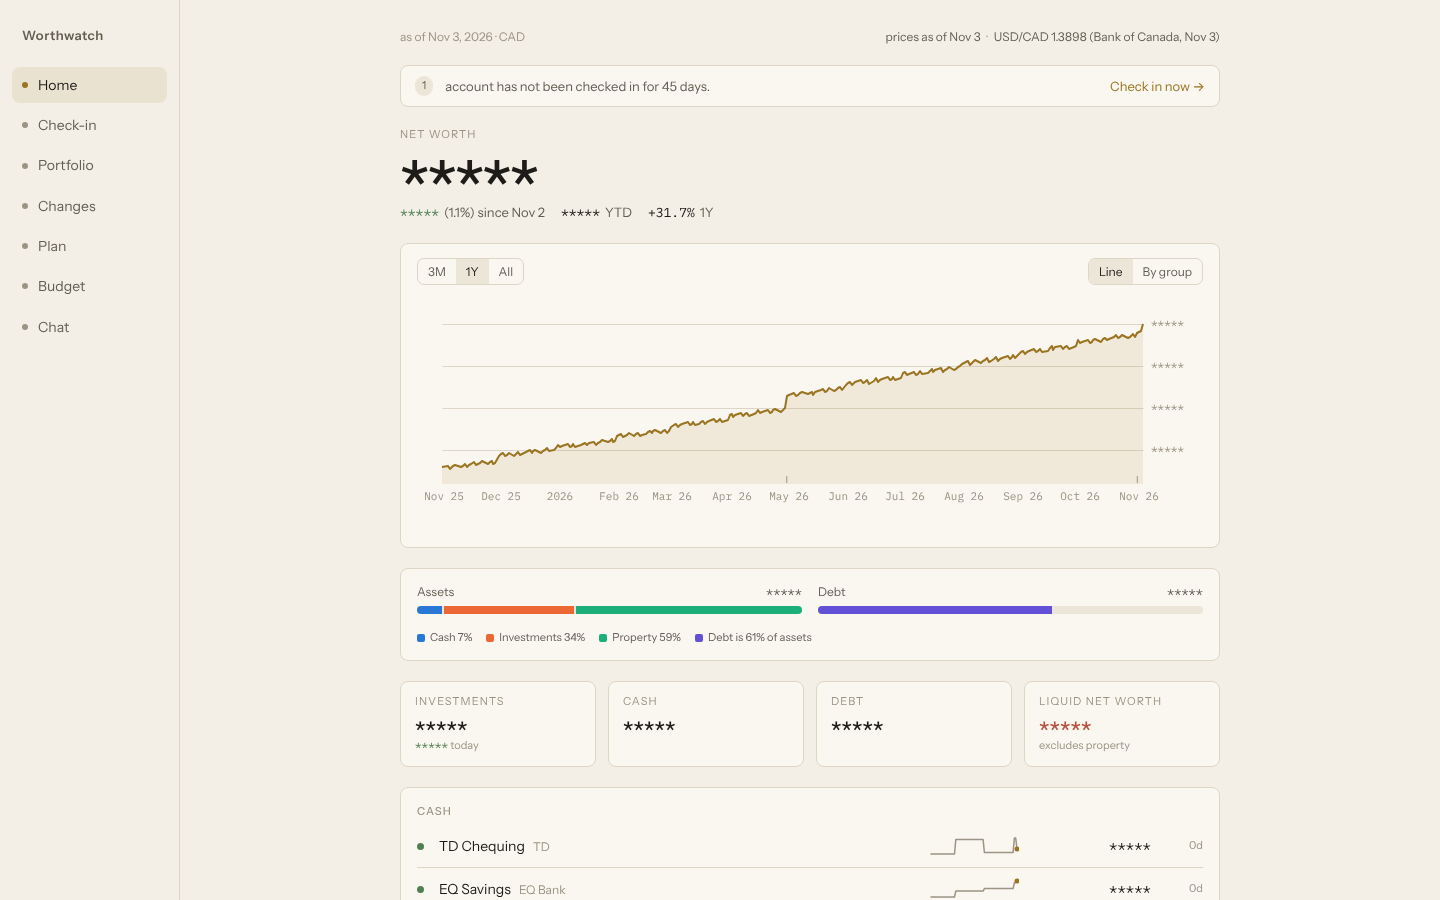
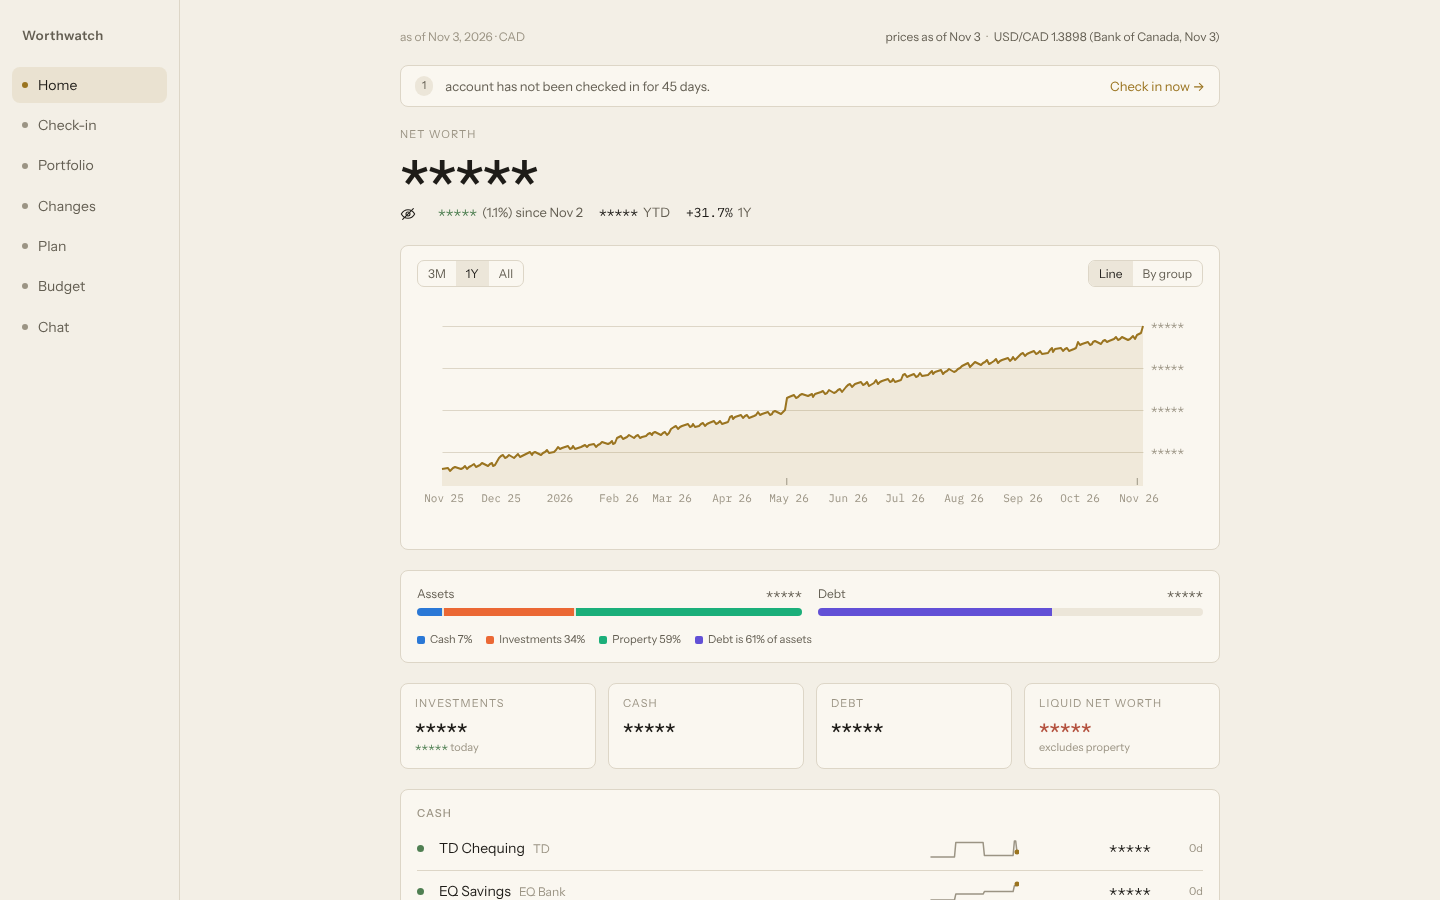
Hide unit counts too, and add an eye toggle under each big figure
Unit counts are personal like amounts, so formatUnits masks them while
amounts are hidden; share prices stay visible. An eye button under the
headline figure on Home, Portfolio, Look-through, Changes, Plan, Budget
and Account detail does the same as ⌘⇧H, with aria-pressed.

diff --git a/ui/src/screens/CheckIn.svelte b/ui/src/screens/CheckIn.svelte
@@ -1,7 +1,7 @@
 <script lang="ts">
   import { apply, ApiError, GROUPS, GROUP_LABEL, KIND_LABEL, ratesInUse, type Account, type AccountKind, type AccountView, type LedgerView, type Mutation } from "../lib/api";
   import { balanceDelta, buildCheckin, slugify, summarize, type Entry } from "../lib/checkin";
-  import { formatDate, formatPlain, parseNumber, todayIso, MASK, amountsHidden } from "../lib/money";
+  import { formatDate, formatPlain, formatUnits, parseNumber, todayIso, MASK, amountsHidden } from "../lib/money";
   import { view as viewStore } from "../lib/stores/view.svelte";
   import { route } from "../lib/stores/route.svelte";
   import Money from "../lib/components/Money.svelte";
@@ -148,10 +148,10 @@
           {#each a.holdings as h}
             <div class="ci pos">
               <span class="name">{h.symbol}<span class="faint inst">units · price in {a.currency}</span></span>
-              <span class="r num muted">{formatPlain(h.units, 4)}</span>
+              <span class="r num muted">{formatUnits(h.units)}</span>
               <span class="r upd faint" title={h.price_source === "fetched" ? "fetched price; typing one overrides it for this date" : h.price_source === "manual" ? "typed on a check-in" : ""}>{h.price == null ? "no price" : `${formatPlain(h.price)} ${h.price_date ? formatDate(h.price_date) : ""}`}</span>
               <span class="pair">
-                <input type="text" id="in-{a.id}-{h.symbol}-units" inputmode="decimal" placeholder={formatPlain(h.units, 4)} value={entries[a.id]?.units?.[h.symbol] ?? ""} oninput={(e) => setUnits(a.id, h.symbol, e.currentTarget.value)} class:bad={result.invalid.includes(`${a.id}:${h.symbol}:units`)} disabled={locked} aria-label="{h.symbol} units" />
+                <input type="text" id="in-{a.id}-{h.symbol}-units" inputmode="decimal" placeholder={formatUnits(h.units)} value={entries[a.id]?.units?.[h.symbol] ?? ""} oninput={(e) => setUnits(a.id, h.symbol, e.currentTarget.value)} class:bad={result.invalid.includes(`${a.id}:${h.symbol}:units`)} disabled={locked} aria-label="{h.symbol} units" />
                 <input type="text" id="in-{a.id}-{h.symbol}-price" inputmode="decimal" placeholder={h.price == null ? "price" : formatPlain(h.price)} value={entries[a.id]?.prices?.[h.symbol] ?? ""} oninput={(e) => setPrice(a.id, h.symbol, e.currentTarget.value)} class:bad={result.invalid.includes(`${a.id}:${h.symbol}:price`)} disabled={locked} aria-label="{h.symbol} price" />
               </span>
               <span class="r delta faint">{entries[a.id]?.units?.[h.symbol] || entries[a.id]?.prices?.[h.symbol] ? "edited" : "carry"}</span>

diff --git a/ui/src/screens/Portfolio.svelte b/ui/src/screens/Portfolio.svelte
@@ -1,6 +1,7 @@
 <script lang="ts">
+  import PrivacyToggle from "../lib/components/PrivacyToggle.svelte";
   import type { LedgerView, SecurityRow } from "../lib/api";
-  import { formatDate, formatPlain } from "../lib/money";
+  import { formatDate, formatPlain, formatUnits } from "../lib/money";
   import { providerLabel } from "../lib/market";
   import Money from "../lib/components/Money.svelte";
   import MarketLine from "../lib/components/MarketLine.svelte";
@@ -70,6 +71,7 @@
       <div class="label">Investments</div>
       <Money value={p.total} currency={cur} size="xl" />
       <div class="sub">
+        <PrivacyToggle />
         {#if p.day_change != null}
           <span class="chip"><Money value={p.day_change} currency={cur} signed tone="delta" /><span class="muted">since previous close</span></span>
         {/if}
@@ -108,7 +110,7 @@
                 <span class="sym">{r.symbol}</span>
                 <span class="sub2">{r.accounts.map((a) => a.name).join(" + ")} · {r.currency}{#if r.currency !== cur && !r.missing_fx}&nbsp;→ {cur}{/if}{#if multi}&nbsp;<span class="tw">{open[r.symbol] ? "▾" : "▸"}</span>{/if}</span>
               </td>
-              <td class="r num">{formatPlain(r.units, 4)}</td>
+              <td class="r num">{formatUnits(r.units)}</td>
               <td class="r num">
                 {#if r.price == null}<span class="warn">no price</span><span class="sub2 warn">type one on Check-in</span>
                 {:else}{formatPlain(r.price)}<span class="sub2" class:warn={age != null && age > STALE_DAYS}>{r.price_date ? formatDate(r.price_date) : ""}{r.price_source === "manual" ? " · manual" : ""}</span>{/if}
@@ -129,7 +131,7 @@
               {#each r.accounts as a}
                 <tr class="acct">
                   <td><a href="#/accounts/{encodeURIComponent(a.account)}">{a.name}</a></td>
-                  <td class="r num">{formatPlain(a.units, 4)}</td>
+                  <td class="r num">{formatUnits(a.units)}</td>
                   <td></td>
                   <td class="r">{#if a.value != null}<Money value={a.value} currency={cur} />{/if}</td>
                   <td></td>

diff --git a/ui/src/lib/components/PastePanel.svelte b/ui/src/lib/components/PastePanel.svelte
@@ -1,7 +1,7 @@
 <script lang="ts">
   // Paste a broker holdings export for one position account; preview the diff; apply.
   import { apply, ApiError, parseHoldings, type AccountView, type PastePlan } from "../api";
-  import { formatPlain } from "../money";
+  import { formatPlain, formatUnits, MASK, amountsHidden } from "../money";
   import { view as viewStore } from "../stores/view.svelte";
 
   let { account, date, locked = false, onclose }: { account: AccountView; date: string; locked?: boolean; onclose: () => void } = $props();
@@ -60,10 +60,10 @@
         {@const d = Number(r.delta)}
         <div class="prev">
           <span>{r.symbol}{#if r.new}<span class="new">new</span>{:else if r.pasted_symbol.toUpperCase() !== r.symbol}<span class="faint small">&nbsp;from {r.pasted_symbol}</span>{/if}</span>
-          <span class="r num">{r.new ? "—" : formatPlain(r.current_units, 4)}</span>
-          <span class="r num">{formatPlain(r.units, 4)}</span>
-          <span class="r num" class:up={d > 0} class:down={d < 0} class:faint={d === 0}>{d === 0 ? "same" : `${d > 0 ? "+" : "−"}${formatPlain(Math.abs(d), 4)}`}</span>
-          <span class="r num">{r.price == null ? "—" : formatPlain(r.price)}{#if r.book_cost != null}<span class="faint small"> · book {formatPlain(r.book_cost)}</span>{/if}</span>
+          <span class="r num">{r.new ? "—" : formatUnits(r.current_units)}</span>
+          <span class="r num">{formatUnits(r.units)}</span>
+          <span class="r num" class:up={d > 0} class:down={d < 0} class:faint={d === 0}>{d === 0 ? "same" : `${d > 0 ? "+" : "−"}${formatUnits(Math.abs(d))}`}</span>
+          <span class="r num">{r.price == null ? "—" : formatPlain(r.price)}{#if r.book_cost != null}<span class="faint small"> · book {amountsHidden() ? MASK : formatPlain(r.book_cost)}</span>{/if}</span>
         </div>
       {/each}
     {/if}

diff --git a/ui/e2e/smoke.spec.ts b/ui/e2e/smoke.spec.ts
@@ -219,7 +219,7 @@ test("Plan: a recurring rule moves the projection; ⌘K reaches the wall view; a
 
   await page.getByRole("button", { name: "+ Add rule" }).click();
   await page.getByLabel("Account").selectOption({ label: "TD Chequing" });
-  await page.getByLabel("Amount").fill("1000");
+  await page.getByLabel("Amount", { exact: true }).fill("1000");
   await page.getByRole("button", { name: "Add", exact: true }).click();
   await expect(page.locator(".rules .r")).toContainText("TD Chequing");
   await expect(hero).not.toHaveText(before!);
@@ -305,8 +305,20 @@ test("⌘⇧H hides every amount as stars, and shows them again", async ({ page 
   await page.keyboard.press("Control+Shift+H");
   await expect(amount).toHaveText("*****");
   await expect(page.locator(".money").filter({ hasText: /\d/ })).toHaveCount(0);
-  await expect(page.getByRole("button", { name: /Show amounts/ })).toBeVisible();
+  await expect(page.locator(".rail").getByRole("button", { name: /Show amounts/ })).toBeVisible();
+  // Unit counts are personal too; share prices are public and stay.
+  await page.goto("/#/portfolio");
+  await expect(page.locator("table td.num").filter({ hasText: /^\*{5}$/ }).first()).toBeVisible();
+  await page.goto("/#/");
   await page.keyboard.press("Control+Shift+H");
+  await expect(amount).toHaveText(/^\$[\d,]+$/);
+
+  // The eye under the big figure does the same.
+  const eye = page.getByRole("button", { name: "Hide amounts" }).first();
+  await eye.click();
+  await expect(amount).toHaveText("*****");
+  await expect(page.locator(".hero").getByRole("button", { name: "Show amounts" })).toHaveAttribute("aria-pressed", "true");
+  await page.locator(".hero").getByRole("button", { name: "Show amounts" }).click();
   await expect(amount).toHaveText(/^\$[\d,]+$/);
 });
 

diff --git a/ui/src/screens/AccountDetail.svelte b/ui/src/screens/AccountDetail.svelte
@@ -1,6 +1,7 @@
 <script lang="ts">
+  import PrivacyToggle from "../lib/components/PrivacyToggle.svelte";
   import { KIND_LABEL, type LedgerView } from "../lib/api";
-  import { formatDate, formatPlain, MASK, amountsHidden } from "../lib/money";
+  import { formatDate, formatPlain, formatUnits, MASK, amountsHidden } from "../lib/money";
   import { prefs } from "../lib/stores/prefs.svelte";
   import Money from "../lib/components/Money.svelte";
   import NetWorthChart from "../lib/charts/NetWorthChart.svelte";
@@ -28,7 +29,7 @@
       </div>
       <div class="val">
         <Money value={a.value} currency={cur} size="xl" />
-        <div class="faint">{a.as_of ? `updated ${formatDate(a.as_of, "long")}` : "no value yet"}{a.days_stale != null ? ` · ${a.days_stale}d ago` : ""}</div>
+        <div class="faint"><PrivacyToggle /> {a.as_of ? `updated ${formatDate(a.as_of, "long")}` : "no value yet"}{a.days_stale != null ? ` · ${a.days_stale}d ago` : ""}</div>
       </div>
     </div>
 
@@ -45,7 +46,7 @@
             {#each a.holdings as h}
               <tr>
                 <td>{h.symbol}</td>
-                <td class="r num">{formatPlain(h.units, 4)}</td>
+                <td class="r num">{formatUnits(h.units)}</td>
                 <td class="r num">{#if h.price == null}<span class="warn">no price</span>{:else}{formatPlain(h.price)}<span class="faint small">&nbsp;&nbsp;{h.price_date ? formatDate(h.price_date) : ""}{h.price_source === "manual" ? " · manual" : ""}</span>{/if}</td>
                 <td class="r num money">{h.native_value == null ? "—" : amountsHidden() ? MASK : formatPlain(h.native_value)}</td>
                 <td class="r num money">{h.book_cost == null ? "—" : amountsHidden() ? MASK : formatPlain(h.book_cost)}</td>

diff --git a/ui/src/screens/Changes.svelte b/ui/src/screens/Changes.svelte
@@ -1,9 +1,10 @@
 <script lang="ts">
+  import PrivacyToggle from "../lib/components/PrivacyToggle.svelte";
   // Changes: what moved between two dates. Net worth bridge, every account, every
   // holding split into market / trades / FX, exposure drift, and the feed of fund
   // file changes. All figures come from GET /api/changes; this file lays them out.
   import { GROUPS, GROUP_LABEL, type AccountDiff, type BucketDelta, type Drift, type LedgerView } from "../lib/api";
-  import { formatDate, formatPlain, formatSigned } from "../lib/money";
+  import { formatDate, formatPlain, formatSigned, formatUnits } from "../lib/money";
   import { PRESETS, accountHint, bridgeSteps, changeLine, minorLine, parts, presetFrom, presetTo, rangeLabel, type Preset } from "../lib/changes";
   import { changes as store } from "../lib/stores/changes.svelte";
   import { prefs } from "../lib/stores/prefs.svelte";
@@ -60,7 +61,7 @@
       });
   }
 
-  const units = (x: string) => new Intl.NumberFormat("en-CA", { maximumFractionDigits: 4 }).format(Number(x));
+  const units = (x: string) => formatUnits(x);
   const accountParts = (a: AccountDiff) =>
     [
       { label: "market", value: Number(a.market ?? 0) },
@@ -137,6 +138,7 @@
         <div class="label">Net worth change</div>
         <Money value={c.change} currency={cur} size="xl" signed tone="delta" />
         <div class="sub">
+          <PrivacyToggle />
           <span class="chip"><span class="num"><Money value={c.from_net_worth} currency={cur} /> → <Money value={c.to_net_worth} currency={cur} /></span>{#if c.pct != null}<span class="muted">({Number(c.pct) > 0 ? "+" : ""}{c.pct}%)</span>{/if}</span>
         </div>
         {#if headParts.length}

diff --git a/ui/src/lib/components/PrivacyToggle.svelte b/ui/src/lib/components/PrivacyToggle.svelte
@@ -1,0 +1,26 @@
+<script lang="ts">
+  // The eye under each big figure: shows or hides every amount (same as ⌘⇧H).
+  import { prefs } from "../stores/prefs.svelte";
+</script>
+
+<button
+  type="button"
+  class="eye"
+  aria-pressed={prefs.blur}
+  aria-label={prefs.blur ? "Show amounts" : "Hide amounts"}
+  title="{prefs.blur ? 'Show' : 'Hide'} amounts (⌘⇧H)"
+  onclick={() => prefs.toggleBlur()}>
+  <svg viewBox="0 0 24 24" width="16" height="16" aria-hidden="true">
+    <path d="M2 12s3.6-6.5 10-6.5S22 12 22 12s-3.6 6.5-10 6.5S2 12 2 12Z" />
+    <circle cx="12" cy="12" r="3" />
+    {#if prefs.blur}<line x1="4" y1="20" x2="20" y2="4" />{/if}
+  </svg>
+</button>
+
+<style>
+  .eye { display: inline-flex; align-items: center; justify-content: center; width: 28px; height: 22px; margin-left: -6px; padding: 0; border: 0; border-radius: 4px; background: none; color: var(--text-2); cursor: pointer; vertical-align: middle; }
+  .eye:hover { color: var(--text); background: var(--surface-2); }
+  .eye:focus-visible { outline: 2px solid var(--accent); outline-offset: 1px; }
+  .eye[aria-pressed="true"] { color: var(--text); }
+  svg { fill: none; stroke: currentColor; stroke-width: 1.6; stroke-linecap: round; stroke-linejoin: round; }
+</style>

diff --git a/ui/src/lib/money.test.ts b/ui/src/lib/money.test.ts
@@ -1,5 +1,5 @@
 import { afterEach, describe, expect, it } from "vitest";
-import { MASK, formatCompact, formatMoney, formatSigned, hideAmountsWhen, maskAmounts, parseAmount, parseNumber } from "./money";
+import { MASK, formatCompact, formatMoney, formatSigned, formatUnits, hideAmountsWhen, maskAmounts, parseAmount, parseNumber } from "./money";
 
 describe("parseAmount", () => {
   it("handles plain, comma, k, negative and unicode minus", () => {
@@ -54,9 +54,11 @@ describe("hidden amounts", () => {
     expect(formatMoney("5102.1")).toBe(MASK);
     expect(formatSigned(1240)).toBe(MASK);
     expect(formatCompact(12_000)).toBe(MASK);
+    expect(formatUnits("426.5")).toBe(MASK);
     expect(MASK).toBe("*****");
     on = false;
     expect(formatMoney("5102.1")).toBe("$5,102");
+    expect(formatUnits("426.5")).toBe("426.5");
   });
 
   it("masks dollar amounts inside prose, leaving other numbers", () => {

diff --git a/ui/src/screens/Budget.svelte b/ui/src/screens/Budget.svelte
@@ -1,4 +1,5 @@
 <script lang="ts">
+  import PrivacyToggle from "../lib/components/PrivacyToggle.svelte";
   import { apply, ApiError, setCategory, type LedgerView, type Mutation, type Txn } from "../lib/api";
   import { bullet, byDay, counts, monthLabel, paceLine, shiftMonth, STATUS_LABEL } from "../lib/budget";
   import { formatDate, formatMoney, parseAmount, todayIso } from "../lib/money";
@@ -141,6 +142,7 @@
         <div class="label">Spent in {monthLabel(b.month).split(" ")[0]}</div>
         <div class="big money">{money(b.spent)}</div>
         <div class="sub">
+          <PrivacyToggle />
           {#if Number(b.budget) > 0}
             of <b class="money">{money(b.budget)}</b> budget ·
             {#if pace!.left >= 0}<b class="money">{money(pace!.left)}</b> left{#if pace!.perDay != null && b.day < b.days} · <b class="money">{money(pace!.perDay)}</b>/day for {b.days - b.day} days{/if}

diff --git a/ui/src/screens/Plan.svelte b/ui/src/screens/Plan.svelte
@@ -1,4 +1,5 @@
 <script lang="ts">
+  import PrivacyToggle from "../lib/components/PrivacyToggle.svelte";
   import { apply, ApiError, EVERY_LABEL, type Every, type LedgerView, type Mutation, type Recurring, type RoomKind } from "../lib/api";
   import { formatCompact, formatDate, formatMoney, parseAmount, todayIso } from "../lib/money";
   import { milestoneSplit, monthYear, payoffLine, roomBar, roomLine, yearsBetween } from "../lib/plan";
@@ -121,6 +122,7 @@
         <div class="label">In {headline.years} year{headline.years > 1 ? "s" : ""}, at {ret}%</div>
         <Money value={headline.net_worth} currency={cur} size="xl" />
         <div class="sub">
+          <PrivacyToggle />
           range <b class="money">{compact(headline.low)}–{compact(headline.high)}</b> at {ret - 2}–{ret + 2}%
           {#if tgt != null && tgt > 0}
             · <b class="money">{compact(tgt)}</b> target

diff --git a/ui/src/screens/Home.svelte b/ui/src/screens/Home.svelte
@@ -1,4 +1,5 @@
 <script lang="ts">
+  import PrivacyToggle from "../lib/components/PrivacyToggle.svelte";
   import { GROUPS, GROUP_LABEL, type AccountView, type LedgerView } from "../lib/api";
   import { formatDate, formatMoney } from "../lib/money";
   import { prefs } from "../lib/stores/prefs.svelte";
@@ -52,6 +53,7 @@
       <div class="label">Net worth</div>
       <Money value={view.totals.net_worth} currency={cur} size="xl" />
       <div class="sub">
+        <PrivacyToggle />
         {#if view.deltas.previous}
           <a class="chip link" href="#/changes" title="What moved it: Changes"><Money value={view.deltas.previous.amount} currency={cur} signed tone="delta" />
             <span class="muted">{#if view.deltas.previous.pct != null}({view.deltas.previous.pct}%)&nbsp;{/if}since {formatDate(view.deltas.previous.from)}</span></a>

diff --git a/ui/src/lib/chat.ts b/ui/src/lib/chat.ts
@@ -2,7 +2,7 @@
 // provider line. The server builds and checks every plan; this only reshapes one
 // when the user corrects a proposed figure, and the server checks it again on apply.
 import type { AssistantView, Mutation, Plan, PlanRow2 } from "./api";
-import { parseNumber } from "./money";
+import { formatUnits, parseNumber } from "./money";
 
 /** The faint second line under a row's name. */
 export function rowHint(r: PlanRow2): string {
@@ -24,7 +24,7 @@ export function rowTitle(r: PlanRow2): string {
 }
 
 export function fmtUnits(n: number): string {
-  return new Intl.NumberFormat("en-CA", { maximumFractionDigits: 4 }).format(n);
+  return formatUnits(n);
 }
 
 /** Can the "to" figure be edited in place? Balances, trades and prices. */
